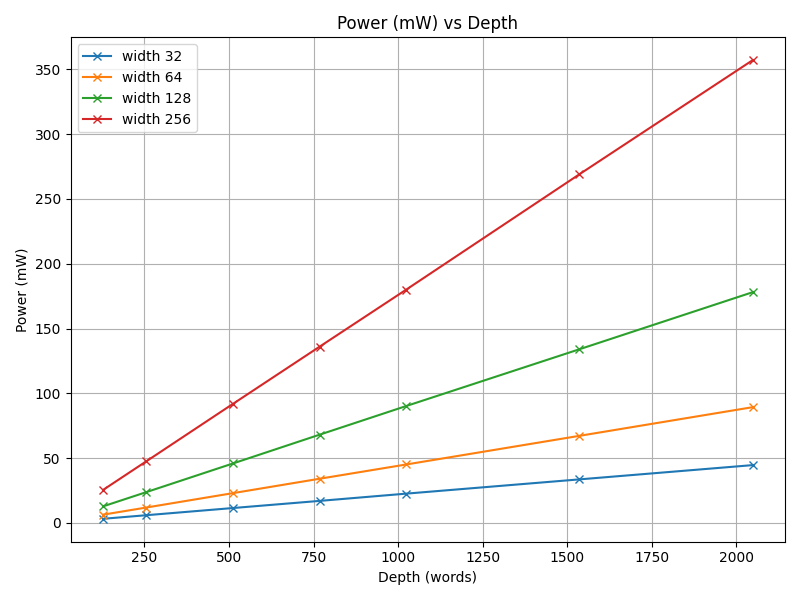
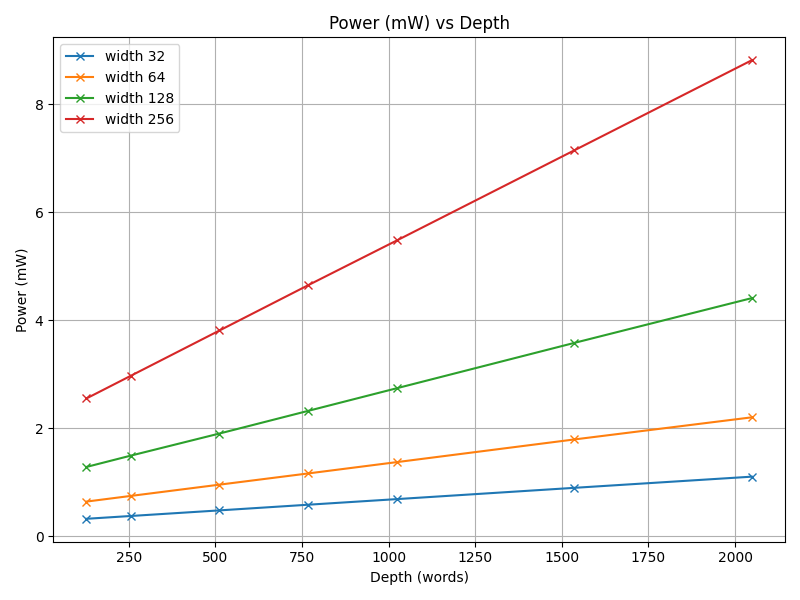
update sram power calibration

diff --git a/nov_arch_explore/sram_sweep_v2.py b/nov_arch_explore/sram_sweep_v2.py
@@ -11,7 +11,7 @@ from platforms.sky130hd.config import SKY130HD_PLATFORM_CONFIG
 # Initialize a PPA runner
 ppa_runner = PPARunner(
 	# Design name can be anything
-	design_name="mem_sp_sky130",
+	design_name="sram_sp_sky130",
 	# Define the tools to be used here
 	tools={
 		'verilog_sim_tool': Iverilog(scripts_dir=path.join('scripts', 'iverilog')),
@@ -23,7 +23,7 @@ ppa_runner = PPARunner(
 		# Source Verilog files.
 		'VERILOG_FILES': [
             path.join(path.dirname(__file__), 'HW_NOV', 'util/sram_sky130.v'),
-            path.join(path.dirname(__file__), 'HW_NOV', 'util/sky130_sram_stub.v'),
+            # path.join(path.dirname(__file__), 'HW_NOV', 'util/sky130_sram_stub.v'),
         ],
 		# The constraint SDC file path.
 		'SDC_FILE': path.join(path.dirname(__file__), 'HW_NOV', 'constraint.sdc')
@@ -36,7 +36,7 @@ ppa_runner.set_platform(SKY130HD_PLATFORM_CONFIG)
 # Add a new sweep PPA job. This job sweeps a range of flow configurations and hyperparameters
 ppa_runner.add_job({
 	# Name of the Verilog module to run the PPA job on
-	'module_name': 'mem_sp_sky130',
+	'module_name': 'sram_sp_sky130',
 	'mode': 'sweep',
 	# This dictionary sets the flow configuration options for this job only. The options set here are appended to the global_flow_config options.
 	# To use multiple sets of values (all of which will be swept), use a dictionary. See the option `ABC_AREA` below and `clk_period` in hyperparameters for more information.
@@ -46,23 +46,26 @@ ppa_runner.add_job({
 		# This sets the netlist used for running the Verilog simulations. In this case, the postsynthesis Verilog netlist will be used.
 		'VERILOG_SIM_TYPE': 'postsynth',
 		# A list of the required testbench files. The design files are automatically included and need not be added here.
-		'VERILOG_TESTBENCH_FILES': [path.join(path.dirname(__file__), 'HW_NOV', 'util/tb/mem_sky130_tb.v')],
+		'VERILOG_TESTBENCH_FILES': [path.join(path.dirname(__file__), 'HW_NOV', 'util/tb/sram_sky130_tb.v')],
 		# If this option is set to true, a VCD file dumped from the simulations will be used to get more accurate power estimates.
 		'USE_STA_VCD': True,
 		# The name of the VCD file dumped. By default it is set to `module_name.vcd`
-		'VERILOG_VCD_NAME': 'mem_sp_sky130.vcd'
+		'VERILOG_VCD_NAME': 'sram_sp_sky130.vcd'
 		# If the option `ABC_AREA` is set to `True`, the area-optimized synthesis strategy is used as opposed to the speed-optimized strategy. The following dictionary lists both values, and hence both the options will be swept and the PPA results will be generated for each case.
 		# 'ABC_AREA': {
 		# 	'values': [True]
 		# }
         ,'ADDITIONAL_LIB_FILES': [
-            path.join(path.dirname(__file__), 'HW_NOV', 'util/lib/sky130_sram_0kbytes_1rw_32x128_32.lib')
+            path.join(path.dirname(__file__), 'HW_NOV', 'util/lib/sky130_sram_0kbytes_1rw_32x128_32.lib'),
+            path.join(path.dirname(__file__), 'HW_NOV', 'util/lib/sky130_sram_2kbytes_1rw_32x512_32.lib')
         ]
 		,'ADDITIONAL_LEFS': [
-			path.join(path.dirname(__file__), 'HW_NOV', 'util/lef/sky130_sram_0kbytes_1rw_32x128_32.lef')
+			path.join(path.dirname(__file__), 'HW_NOV', 'util/lef/sky130_sram_0kbytes_1rw_32x128_32.lef'),
+			path.join(path.dirname(__file__), 'HW_NOV', 'util/lef/sky130_sram_2kbytes_1rw_32x512_32.lef')
         ]
         ,'BLOCKS': {
-            'values': ['sky130_sram_0kbytes_1rw_32x128_32']
+            'values': ['sky130_sram_0kbytes_1rw_32x128_32'],
+            'values': ['sky130_sram_2kbytes_1rw_32x512_32']
         }
 		,'ABC_MAX_FANOUT': {
 			'start': 40,
@@ -90,7 +93,7 @@ ppa_runner.add_job({
 			'values': [3]
 		},
 		'sram_depth': {
-			'values': [128, 256, 512, 768, 1024, 1536, 2048]  # 256 to 524288
+			'values': [128, 256, 512, 1024, 1536, 2048]  # 256 to 524288
 		},
 		'sram_width': {
 			'values': [32,64,128,256]

diff --git a/nov_arch_explore/sram_sweep_data_extraction.py b/nov_arch_explore/sram_sweep_data_extraction.py
@@ -9,10 +9,13 @@ script_dir = os.path.dirname(os.path.abspath(__file__))
 parent_dir = os.path.dirname(script_dir)
 
 # Base directory containing all folders with ppa.json files
-base_dir = os.path.join(parent_dir, "runs", "mem_sp_sky130", "1_mem_sp_sky130_sweep")
+# base_dir = os.path.join(parent_dir, "runs", "mem_sp_sky130", "1_mem_sp_sky130_sweep")
+base_dir = os.path.join(parent_dir, "runs", "sram_sp_sky130", "1_sram_sp_sky130_sweep")
 
 # Define the output CSV file path
-output_csv_path = os.path.join(parent_dir, "nov_arch_explore/sram_sweep_data", "ppa_sram_data_3ns.csv")
+# output_csv_path = os.path.join(parent_dir, "nov_arch_explore/sram_sweep_data", "ppa_sram_data_3ns.csv")
+output_csv_path = os.path.join(parent_dir, "nov_arch_explore/sram_sweep_data", "ppa_sram_data_3ns_v2.csv")
+
 
 # Column headers for CSV
 # csv_columns = [

diff --git a/nov_arch_explore/sram_sweep.py b/nov_arch_explore/sram_sweep.py
@@ -87,7 +87,7 @@ ppa_runner.add_job({
 		# The dictionary below defines a sweep for the `clk_period` hyperparameter. All values of clk_period, starting at `10` and going upto `100` will be swept with a step of 10. i.e., 10, 20, ..., 100.
 		# This hyperparameter is used to set the clock period in the constraint.sdc and the verilog testbench.
 		'clk_period': {
-			'values': [3]
+			'values': [5]
 		},
 		'sram_depth': {
 			'values': [128, 256, 512, 768, 1024, 1536, 2048]  # 256 to 524288

diff --git a/nov_arch_explore/sram_sweep_data/plot.py b/nov_arch_explore/sram_sweep_data/plot.py
@@ -2,7 +2,7 @@ import pandas as pd
 import matplotlib.pyplot as plt
 
 # Read the CSV data
-df = pd.read_csv("ppa_sram_data_3ns.csv")
+df = pd.read_csv("ppa_sram_data_3ns_v2.csv")
 
 # Filter for widths 8 and 16
 # df = df[df['width_bits'].isin([8, 16])]
@@ -89,4 +89,4 @@ ax.set_title('Power (mW) vs Depth')
 ax.legend()
 ax.grid(True)
 plt.tight_layout()
-plt.savefig('sram_power.png')
+plt.savefig('sram_power_v2.png')
